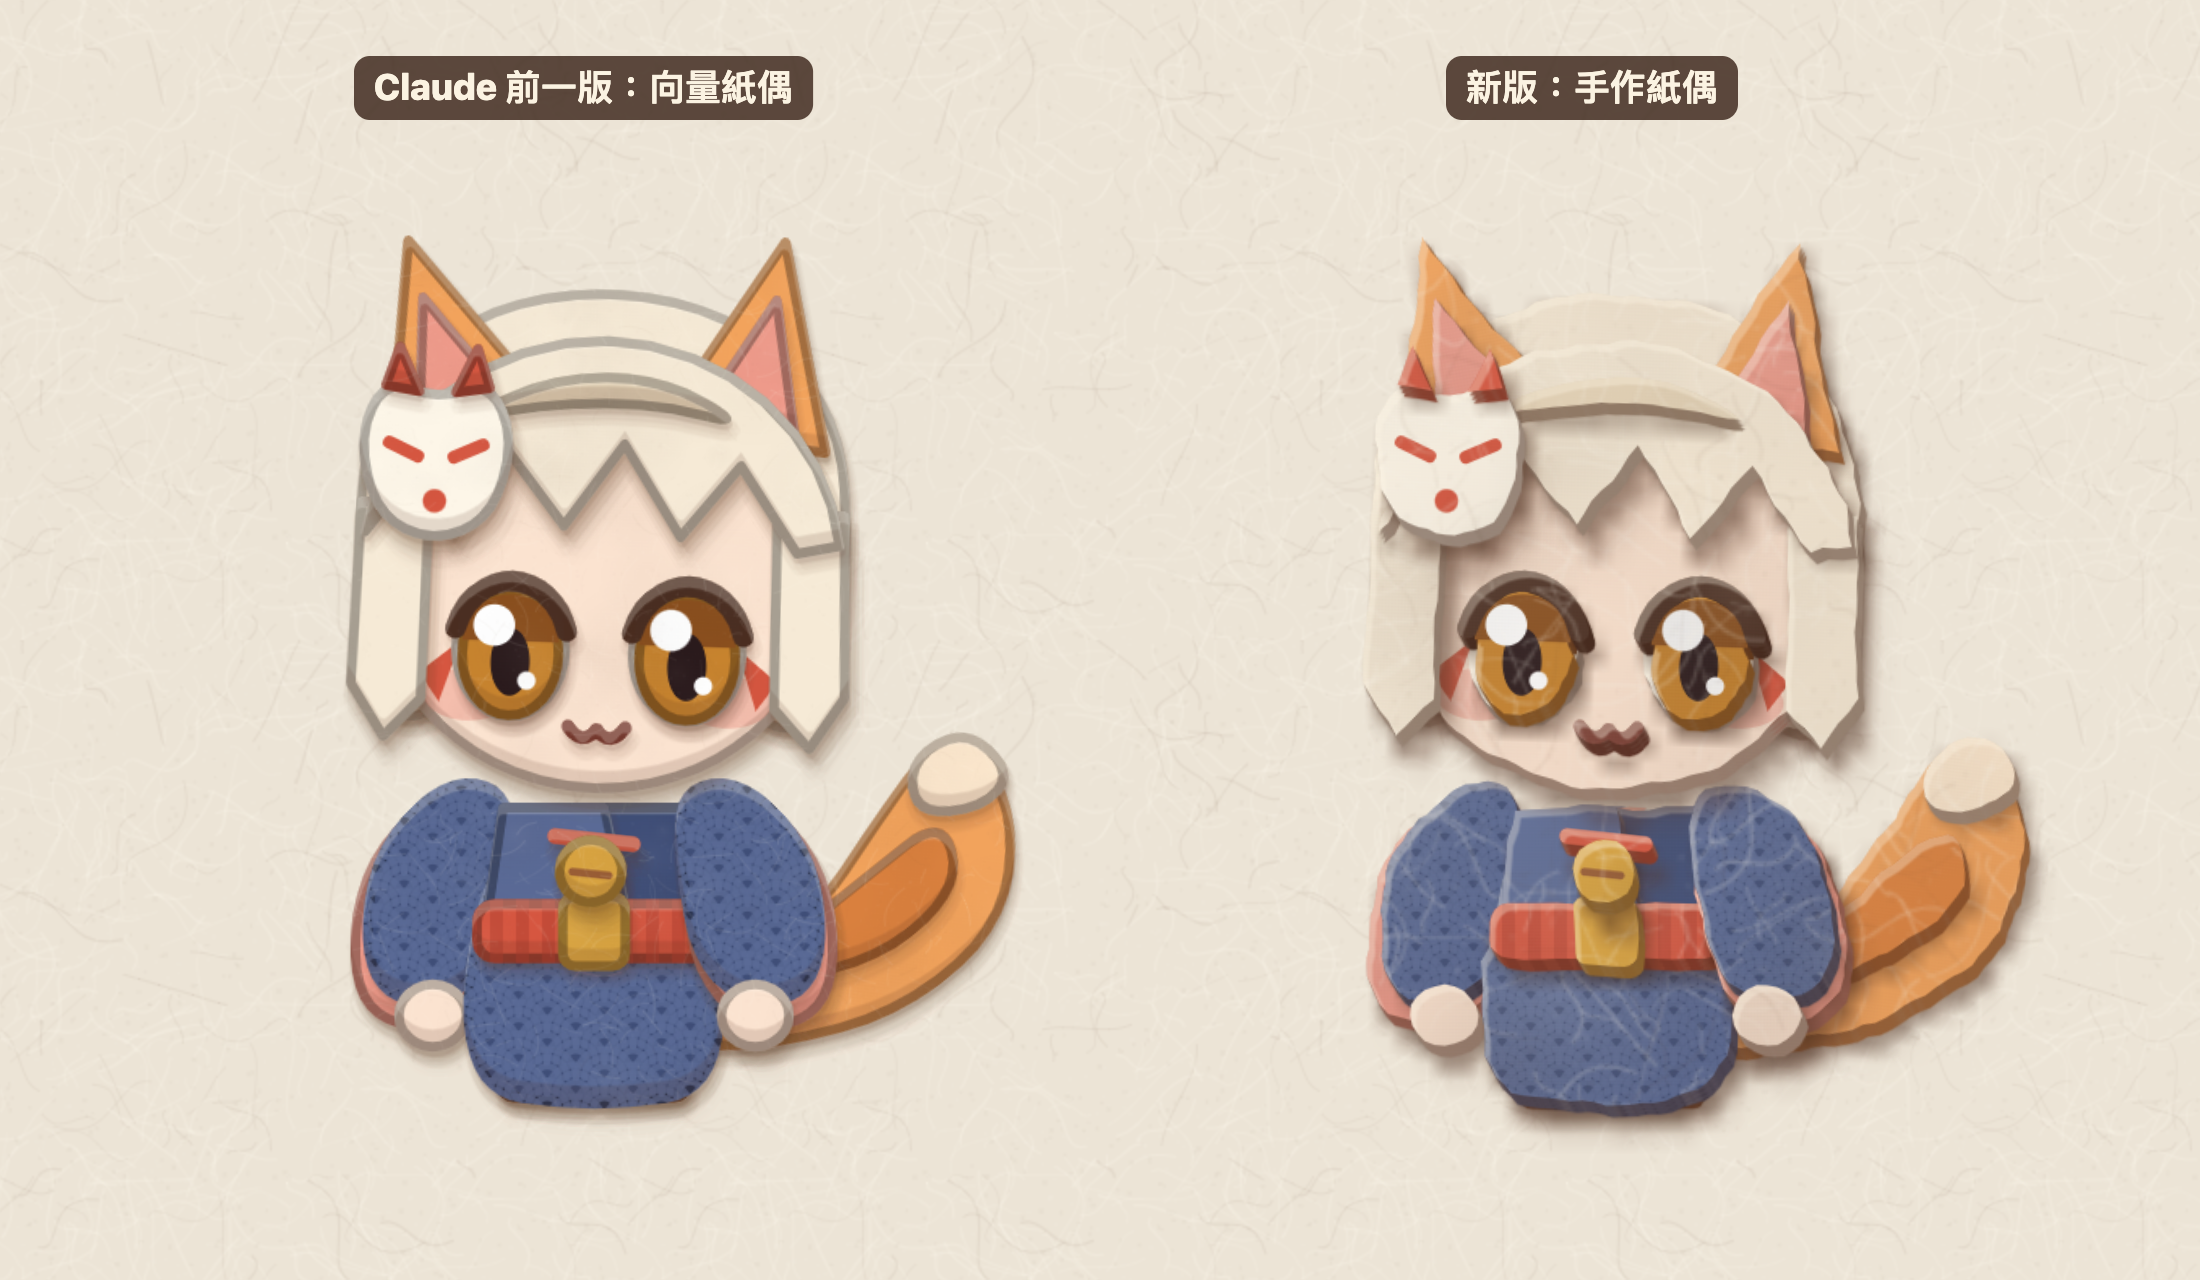
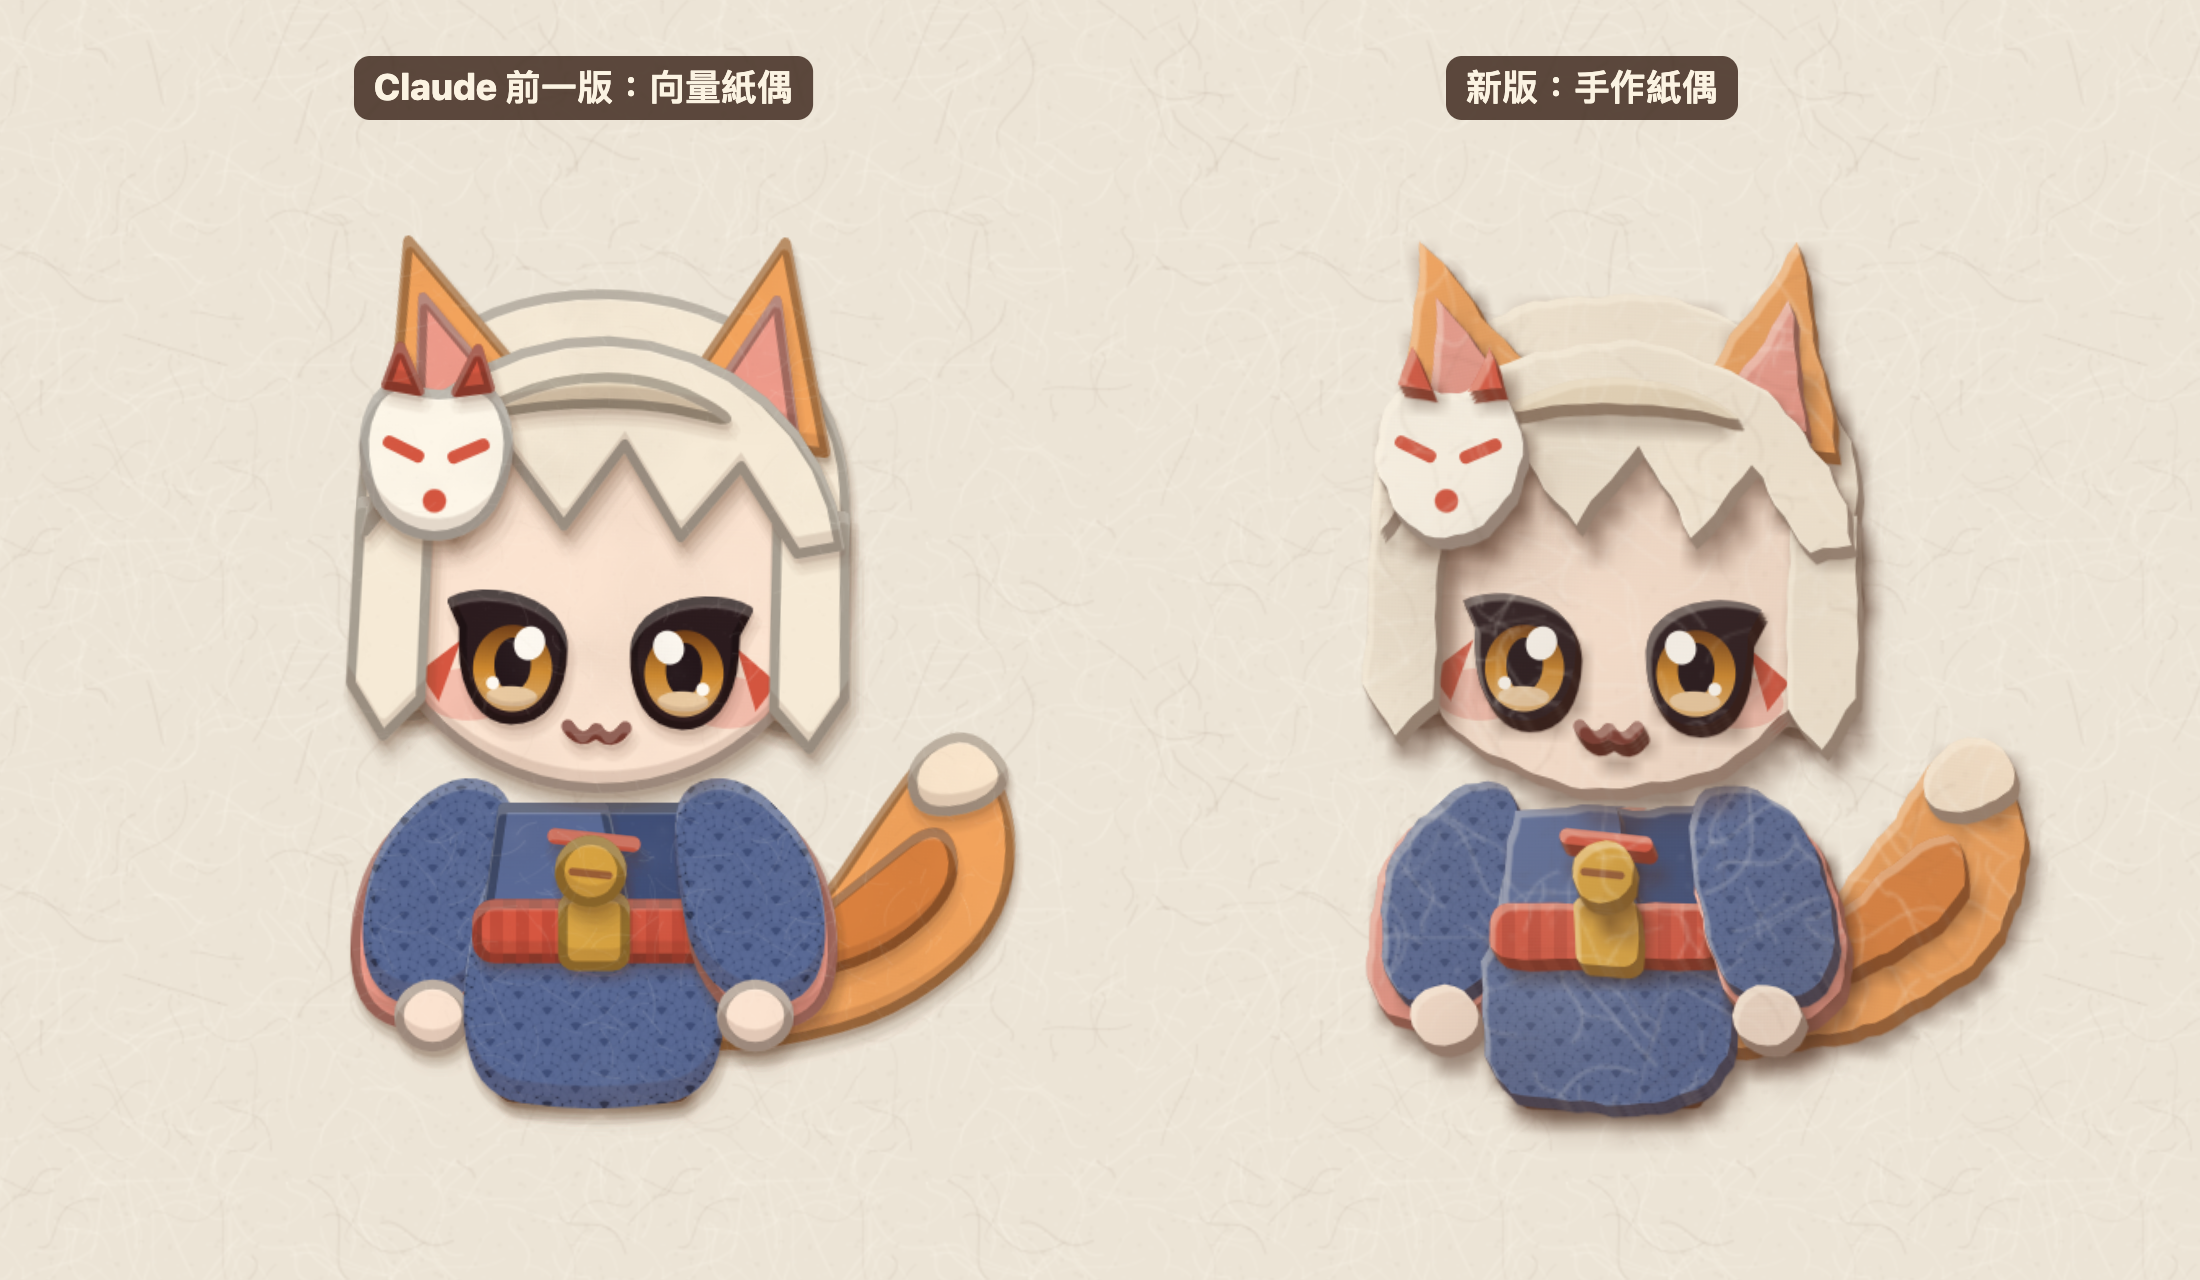
Yokai Night Market: chibi eyes as one cut piece
The eye was a white oval, an iris sheet and a pupil sheet with a separate lash
arc floating above: too much white, a gap under the lash, and in the craft style
three stacked card edges inside a small eye. Now one dark eye shape whose top
edge is the lash line with an outer flick, and the iris (gradient), pupil, lower
glint and catchlights printed on that same sheet. Used by Xiaoman and the fox.

Claude-Session: https://claude.ai/code/session_01SWmRBCoZi5zDewCs1B5KjF

diff --git a/yokai-night-market/src/render/dolls.ts b/yokai-night-market/src/render/dolls.ts
@@ -2,7 +2,7 @@
 // outlined in a darker tone of its own colour, a cel fold on its lower edge, printed
 // traditional patterns, small soft shadows. Units are logical pixels; the root pin is at the feet.
 import type { DollDef, Pose } from './doll';
-import { type C, blob, blossom, curve, dot, ell, line, pat, poly, rr, tone } from './kit';
+import { type C, blob, blossom, chibiEye, curve, dot, ell, line, pat, poly, rr, tone } from './kit';
 
 export const P = {
   verm: '#d65640', vermDk: '#b2402f', coral: '#ee9a8a', pink: '#f2b8bf', pinkMd: '#e996a3', pinkDk: '#d27486',
@@ -26,18 +26,6 @@ function foot(c: C): void {
   ell(c, 0, 1.8, 3.2, 2.4, P.paper);
   rr(c, -3.5, 3.4, 7, 1.9, 0.9, P.woodDk);
   line(c, [-1.2, 0.3, 0.4, 2.6], P.verm, 1);
-}
-
-function animeEye(c: C, x: number, y: number, s: number): void {
-  ell(c, x, y, 4.2, 5.2, P.paper);
-  ell(c, x, y + 0.4, 3.7, 4.7, '#a14c38');
-  c.beginPath(); c.ellipse(x, y - 0.6, 3.7, 3.6, 0, Math.PI, 0); c.fillStyle = '#6a3028'; c.fill();
-  ell(c, x, y + 0.9, 1.7, 2.2, '#2a1a1c', 0);
-  c.beginPath(); c.ellipse(x, y + 2.8, 2.6, 1.3, 0, 0, Math.PI); c.fillStyle = '#e08a5a'; c.fill();
-  dot(c, x - s * 1.3, y - 1.8, 1.6, '#fff'); dot(c, x + s * 1.3, y + 2, 0.7, '#fff');
-  // lash line: follows the top of the eye itself, so the look stays round and soft
-  c.beginPath(); c.ellipse(x, y + 0.2, 4.5, 5.4, 0, Math.PI * 1.1, Math.PI * 1.9); c.lineWidth = 1.7; c.strokeStyle = P.hair; c.lineCap = 'round'; c.stroke();
-  line(c, [x + s * 4.2, y - 2.2, x + s * 5.4, y - 3.2], P.hair, 1.1);
 }
 
 export const MIKO: DollDef = {
@@ -72,7 +60,7 @@ export const MIKO: DollDef = {
       ell(c, -16, -14, 2.5, 3.2, P.skin); ell(c, 16, -14, 2.5, 3.2, P.skin);
       ell(c, 0, -17, 17, 15.5, P.skin);
       c.globalAlpha = 0.5; ell(c, -10, -8.6, 3.4, 2, P.coral, 0); ell(c, 10, -8.6, 3.4, 2, P.coral, 0); c.globalAlpha = 1;
-      animeEye(c, -6.8, -11.6, -1); animeEye(c, 6.8, -11.6, 1);
+      chibiEye(c, -6.6, -11.4, -1, '#b0583e', '#5a2420'); chibiEye(c, 6.6, -11.4, 1, '#b0583e', '#5a2420');
       c.beginPath(); c.moveTo(-1.6, -6.6); c.quadraticCurveTo(0, -4.2, 1.6, -6.6); c.closePath(); c.fillStyle = '#b8483e'; c.fill();
     } },
     { id: 'hairB', parent: 'head', at: [0, -17], z: 0, box: [-22, -26, 22, 14], draw: (c) => {

diff --git a/yokai-night-market/src/render/kit.ts b/yokai-night-market/src/render/kit.ts
@@ -533,3 +533,29 @@ export function paperFill(c: C, x: number, y: number, w: number, h: number, col:
   c.fillStyle = col; c.fillRect(x, y, w, h);
   c.save(); c.globalAlpha = 0.5; c.fillStyle = grainPattern(c); c.fillRect(x, y, w, h); c.restore();
 }
+
+// A chibi eye as ONE cut piece: a dark eye shape whose top edge is the lash line (with a small
+// flick at the outer corner), and everything inside it printed on that same sheet: an iris
+// that darkens towards the top, the pupil, a lower glint and two catchlights. One sheet means
+// one edge and one shadow, so it stays clean at small sizes. `s` is -1 for the left eye.
+export function chibiEye(c: C, x: number, y: number, s: number, iris: string, irisDk: string, k = 1): void {
+  const w = 3.9 * k, h = 4.9 * k;
+  sheet(c);
+  c.beginPath();
+  c.moveTo(x - s * w * 1.0, y - h * 0.15);
+  c.bezierCurveTo(x - s * w * 1.0, y - h * 0.95, x + s * w * 0.6, y - h * 1.15, x + s * w * 1.25, y - h * 0.85);
+  c.lineTo(x + s * w * 1.0, y - h * 0.45);
+  c.bezierCurveTo(x + s * w * 1.05, y + h * 0.75, x + s * w * 0.4, y + h * 1.0, x, y + h * 1.0);
+  c.bezierCurveTo(x - s * w * 0.65, y + h * 1.0, x - s * w * 1.0, y + h * 0.55, x - s * w * 1.0, y - h * 0.15);
+  c.closePath();
+  c.fillStyle = '#2b1b1e'; c.fill();
+  if (stack && stack.top === c && stack.tmp && !stack.craft) { c.lineWidth = 0.6; c.strokeStyle = '#1e1214'; c.stroke(); }
+  // printed iris with a vertical gradient, inset from the dark rim
+  const g = c.createLinearGradient(x, y - h * 0.55, x, y + h * 0.85);
+  g.addColorStop(0, irisDk); g.addColorStop(0.55, iris); g.addColorStop(1, tone(iris, 0.35));
+  c.beginPath(); c.ellipse(x, y + h * 0.18, w * 0.78, h * 0.68, 0, 0, TAU); c.fillStyle = g; c.fill();
+  c.beginPath(); c.ellipse(x, y + h * 0.12, w * 0.36, h * 0.42, 0, 0, TAU); c.fillStyle = '#24161a'; c.fill();
+  c.beginPath(); c.ellipse(x, y + h * 0.62, w * 0.5, h * 0.16, 0, 0, TAU); c.fillStyle = tone(iris, 0.55); c.fill();
+  c.beginPath(); c.ellipse(x - s * w * 0.32, y - h * 0.22, w * 0.3, h * 0.27, -0.4 * s, 0, TAU); c.fillStyle = '#fffaf2'; c.fill();
+  c.beginPath(); c.arc(x + s * w * 0.38, y + h * 0.42, w * 0.13, 0, TAU); c.fillStyle = '#fffaf2'; c.fill();
+}

diff --git a/yokai-night-market/src/render/village.ts b/yokai-night-market/src/render/village.ts
@@ -1,7 +1,7 @@
 // The fox spirit and the village pieces from the user's character and environment briefs.
 import type { DollDef, Pose } from './doll';
 import { MAPLE, P, hanging, tier } from './dolls';
-import { type C, blob, blossom, curve, dot, ell, line, pat, poly, rr, tone } from './kit';
+import { type C, blob, blossom, chibiEye, curve, dot, ell, line, pat, poly, rr, tone } from './kit';
 
 // ---------------------------------------------------------------- 狐狸精
 
@@ -46,14 +46,7 @@ export const FOX_SPIRIT: DollDef = {
       c.globalAlpha = 0.5; ell(c, -10, -8.4, 3.4, 2, P.coral, 0); ell(c, 10, -8.4, 3.4, 2, P.coral, 0); c.globalAlpha = 1;
       // fox markings at the outer corners of the eyes
       poly(c, [-13.8, -10, -10.6, -12.6, -12.2, -7.8], P.verm, 0); poly(c, [13.8, -10, 10.6, -12.6, 12.2, -7.8], P.verm, 0);
-      for (const s of [-1, 1]) {
-        ell(c, s * 6.8, -12, 4.2, 5.2, P.paper);
-        ell(c, s * 6.8, -11.6, 3.7, 4.7, '#c7832e');
-        c.beginPath(); c.ellipse(s * 6.8, -12.6, 3.7, 3.6, 0, Math.PI, 0); c.fillStyle = '#8a4f1e'; c.fill();
-        ell(c, s * 6.8, -11, 1.5, 2.6, '#2a1a1c', 0);
-        dot(c, s * 6.8 - 1.3, -13.8, 1.6, '#fff'); dot(c, s * 6.8 + 1.3, -9.6, 0.7, '#fff');
-        c.beginPath(); c.ellipse(s * 6.8, -11.8, 4.5, 5.4, 0, Math.PI * 1.1, Math.PI * 1.9); c.lineWidth = 1.6; c.strokeStyle = '#4a2e22'; c.lineCap = 'round'; c.stroke();
-      }
+      chibiEye(c, -6.6, -11.4, -1, '#d08a2e', '#6a3814'); chibiEye(c, 6.6, -11.4, 1, '#d08a2e', '#6a3814');
       c.beginPath(); c.moveTo(-2.2, -6.2); c.quadraticCurveTo(-1.1, -4.6, 0, -6); c.quadraticCurveTo(1.1, -4.6, 2.2, -6.2); c.lineWidth = 1; c.strokeStyle = '#7a3a30'; c.stroke();
     } },
     { id: 'hairB', parent: 'head', at: [0, -17], z: 0, box: [-22, -24, 22, 16], draw: (c) => {
